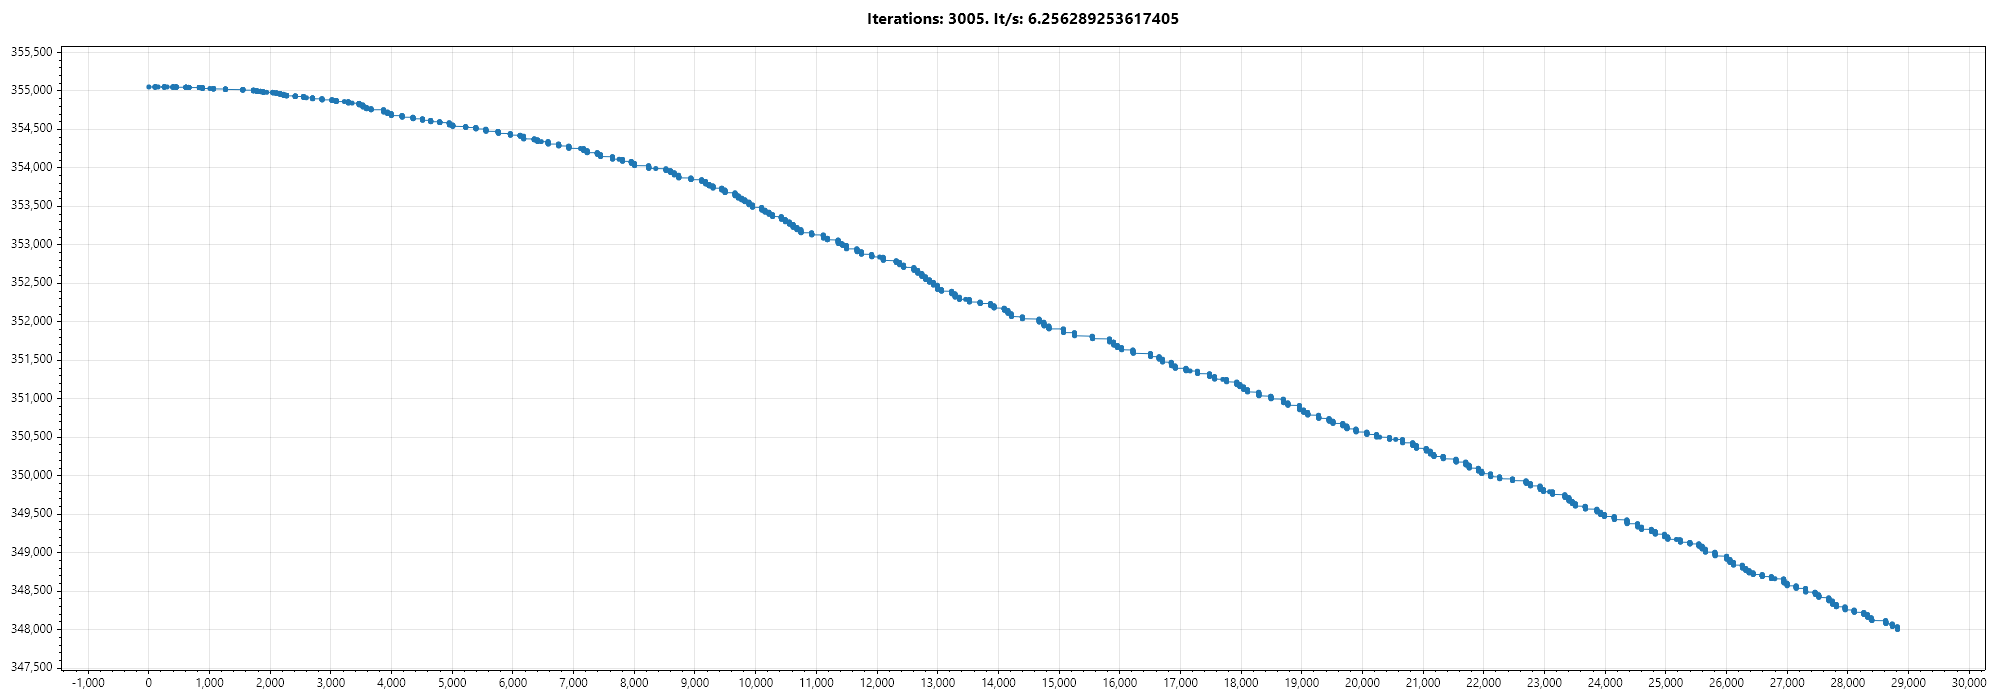
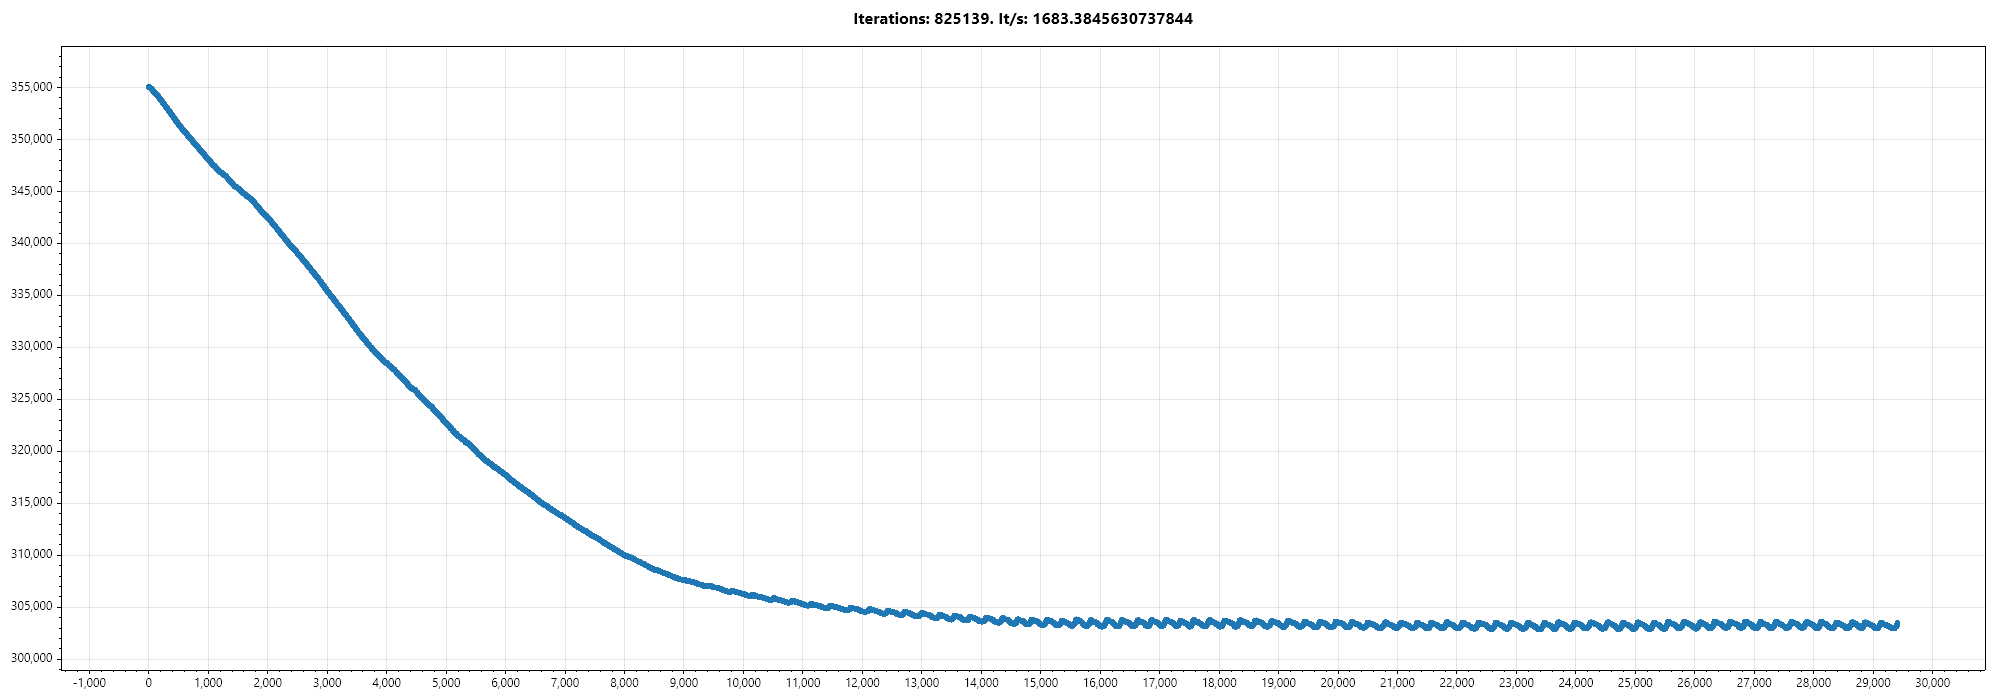
V2: replace destructive perturbation with score-guided + elite pool
- Score-guided perturbation: BMS-sample easiest-to-remove vertices (3-5)
  instead of escalating random/high-freq/BFS-cluster removal
- More frequent perturbation (50k vs 100k threshold)
- Elite pool of 3 best solutions with restart-from-elite on deep stagnation
- More frequent frequency smoothing (75k vs 100k)
- Remove expensive vertexAppearCount tracking and full greedy restarts

Result: V2 now beats V1 (302,477 vs 302,882) with 3x more iterations
in the same time budget on heuristic_001.gr.

diff --git a/Solvers/CC2FS_ClaudeV2.cs b/Solvers/CC2FS_ClaudeV2.cs
@@ -1,18 +1,15 @@
 using BSC_DS_MP.DataStructures.Graph;
-using BSC_DS_MP.DataStructures.Heap;
 using BSC_DS_MP.Util;
 using ScottPlot;
 using System;
-using System.Collections;
 using System.Collections.Generic;
 using System.Diagnostics;
 
 namespace BSC_DS_MP.Solvers;
 
 /// <summary>
-/// CC2FS V2: Same core loop as V1 but with progressive perturbation
-/// (escalating disruption on stagnation) and randomized restarts with
-/// history-based diversity penalties.
+/// CC2FS V2: Same core loop as V1 but with score-guided perturbation,
+/// elite solution pool, and restart-from-elite on deep stagnation.
 /// </summary>
 internal class CC2FS_ClaudeV2 : ISolver {
 
@@ -74,16 +71,20 @@ internal class CC2FS_ClaudeV2 : ISolver {
     int[] forbidBuf;
     int forbidCount;
 
-    // --- Stagnation / progressive perturbation ---
+    // --- Stagnation ---
     int stepsSinceImprovement;
-    int perturbLevel;
-    static readonly int[] STAGNATION_THRESHOLDS = { 100_000, 300_000, 700_000, 1_500_000 };
+    int totalStepsSinceBestImproved;
+    const int STAGNATION_THRESHOLD = 50_000;
+    const int RESTART_THRESHOLD = 500_000;
 
-    const int SMOOTH_INTERVAL = 100_000;
+    const int SMOOTH_INTERVAL = 75_000;
     int smoothCounter;
 
-    // --- Restart history ---
-    int[] vertexAppearCount;
+    // --- Elite pool ---
+    const int ELITE_POOL_SIZE = 3;
+    int[][] elitePool;
+    int[] eliteCounts;
+    int eliteUsed;
     int restartCount;
 
     private readonly bool useOneLevelCC;
@@ -126,9 +127,11 @@ internal class CC2FS_ClaudeV2 : ISolver {
         stepCounter = 0;
         smoothCounter = 0;
         stepsSinceImprovement = 0;
-        perturbLevel = 0;
+        totalStepsSinceBestImproved = 0;
 
-        vertexAppearCount = new int[n];
+        elitePool = new int[ELITE_POOL_SIZE][];
+        eliteCounts = new int[ELITE_POOL_SIZE];
+        eliteUsed = 0;
         restartCount = 0;
 
         ISolution init = new GreedyDecreaseKey().Solve(graph, null);
@@ -164,10 +167,8 @@ internal class CC2FS_ClaudeV2 : ISolver {
                     bestSolVertices = new int[solList.count];
                     Array.Copy(solList.items, bestSolVertices, solList.count);
                     stepsSinceImprovement = 0;
-                    perturbLevel = 0;
-
-                    for (int i = 0; i < solList.count; i++)
-                        vertexAppearCount[solList.items[i]]++;
+                    totalStepsSinceBestImproved = 0;
+                    UpdateElitePool(solList.items, solList.count);
                 }
                 int v = GetBestRemoveBMS(useForbidList: false);
                 RemoveVertex(v);
@@ -189,20 +190,19 @@ internal class CC2FS_ClaudeV2 : ISolver {
             }
 
             stepsSinceImprovement++;
+            totalStepsSinceBestImproved++;
 
-            // Progressive perturbation (V2 improvement over V1's fixed perturbation)
-            if (perturbLevel < STAGNATION_THRESHOLDS.Length &&
-                stepsSinceImprovement > STAGNATION_THRESHOLDS[perturbLevel] &&
-                solList.count > 0) {
-                if (perturbLevel < 3) {
-                    Perturb(perturbLevel + 1);
-                    perturbLevel++;
-                    stepsSinceImprovement = 0;
-                } else {
-                    TriggerRestart(graph);
-                    perturbLevel = 0;
-                    stepsSinceImprovement = 0;
-                }
+            // Score-guided perturbation on stagnation
+            if (stepsSinceImprovement > STAGNATION_THRESHOLD && solList.count > 0) {
+                Perturb();
+                stepsSinceImprovement = 0;
+            }
+
+            // Restart from elite on deep stagnation
+            if (totalStepsSinceBestImproved > RESTART_THRESHOLD && eliteUsed > 0) {
+                RestartFromElite();
+                stepsSinceImprovement = 0;
+                totalStepsSinceBestImproved = 0;
             }
         }
 
@@ -467,67 +467,66 @@ internal class CC2FS_ClaudeV2 : ISolver {
         for (int v = 0; v < n; v++) score[v] = ComputeScoreFromScratch(v);
     }
 
-    // --- V2-specific: Progressive perturbation ---
+    // --- Score-guided perturbation: remove 3-5 easiest-to-remove vertices ---
 
-    private void Perturb(int intensity) {
-        if (solList.count == 0) return;
-        switch (intensity) {
-            case 1: PerturbRandom(rng.Next(3, 8)); break;           // mild: similar to V1
-            case 2: PerturbHighFreq(rng.Next(10, 30)); break;      // medium: targeted
-            case 3: PerturbBfsCluster(rng.Next(30, 100)); break;   // strong: structural
+    private void Perturb() {
+        int toRemove = rng.Next(3, 6);
+        toRemove = Math.Min(toRemove, solList.count);
+        if (toRemove == 0) return;
+
+        // BMS-style sampling: find the vertices with highest score (least costly to remove)
+        int[] candidates = new int[toRemove];
+        int[] candScores = new int[toRemove];
+        Array.Fill(candScores, int.MinValue);
+
+        int sampleSize = Math.Min(BMS_K * 2, solList.count);
+        for (int s = 0; s < sampleSize; s++) {
+            int v = solList.RandomElement(rng);
+            int sc = score[v];
+            int worstIdx = 0;
+            for (int j = 1; j < toRemove; j++) {
+                if (candScores[j] < candScores[worstIdx]) worstIdx = j;
+            }
+            if (sc > candScores[worstIdx]) {
+                candidates[worstIdx] = v;
+                candScores[worstIdx] = sc;
+            }
         }
-    }
 
-    private void PerturbRandom(int count) {
-        count = Math.Min(count, solList.count);
-        for (int i = 0; i < count; i++) {
-            if (solList.count == 0) break;
-            RemoveVertex(solList.RandomElement(rng));
-        }
-    }
-
-    private void PerturbHighFreq(int count) {
-        count = Math.Min(count, solList.count);
-        var candidates = new int[solList.count];
-        Array.Copy(solList.items, candidates, solList.count);
-        int candCount = solList.count;
-        Array.Sort(candidates, 0, candCount, Comparer<int>.Create((a, b) => freq[b].CompareTo(freq[a])));
-        for (int i = 0; i < count && i < candCount; i++) {
-            if (solList.Contains(candidates[i]))
+        for (int i = 0; i < toRemove; i++) {
+            if (candScores[i] != int.MinValue && solList.Contains(candidates[i]))
                 RemoveVertex(candidates[i]);
         }
     }
 
-    private void PerturbBfsCluster(int count) {
-        if (solList.count == 0) return;
-        count = Math.Min(count, solList.count);
-        int seed = solList.RandomElement(rng);
-        var queue = new Queue<int>();
-        var visited = new HashSet<int>();
-        queue.Enqueue(seed);
-        visited.Add(seed);
-        var toRemove = new List<int>(count);
-        while (queue.Count > 0 && toRemove.Count < count) {
-            int v = queue.Dequeue();
-            toRemove.Add(v);
-            var neighbors = csr.GetNeighbors(v);
-            for (int i = 0; i < neighbors.Length; i++) {
-                int u = neighbors[i];
-                if (solList.Contains(u) && !visited.Contains(u)) {
-                    visited.Add(u);
-                    queue.Enqueue(u);
-                }
+    // --- Elite pool ---
+
+    private void UpdateElitePool(int[] solVertices, int solCount) {
+        if (eliteUsed < ELITE_POOL_SIZE) {
+            elitePool[eliteUsed] = new int[solCount];
+            Array.Copy(solVertices, elitePool[eliteUsed], solCount);
+            eliteCounts[eliteUsed] = solCount;
+            eliteUsed++;
+        } else {
+            int worstIdx = 0;
+            for (int i = 1; i < ELITE_POOL_SIZE; i++) {
+                if (eliteCounts[i] > eliteCounts[worstIdx]) worstIdx = i;
+            }
+            if (solCount < eliteCounts[worstIdx]) {
+                elitePool[worstIdx] = new int[solCount];
+                Array.Copy(solVertices, elitePool[worstIdx], solCount);
+                eliteCounts[worstIdx] = solCount;
             }
         }
-        foreach (int v in toRemove)
-            if (solList.Contains(v)) RemoveVertex(v);
     }
 
-    // --- V2-specific: Randomized restart with diversity ---
+    // --- Restart from a random elite solution ---
 
-    private void TriggerRestart(IGraph graph) {
+    private void RestartFromElite() {
         restartCount++;
+        int idx = rng.Next(eliteUsed);
 
+        // Clear current solution
         while (solList.count > 0)
             SolRemoveVertex(solList.items[solList.count - 1]);
 
@@ -535,35 +534,21 @@ internal class CC2FS_ClaudeV2 : ISolver {
         for (int v = 0; v < n; v++)
             if (coveredCount[v] == 0) uncovList.Add(v);
 
-        var covered = new BitArray(n, false);
-        int covCount = 0;
-        var heap = new IndexedMaxHeap(n);
-        double diversityWeight = Math.Min(restartCount * 0.5, 5.0);
-        int noiseRange = Math.Max(1, n / 1000);
+        // Reload elite solution
+        for (int i = 0; i < eliteCounts[idx]; i++)
+            SolAddVertex(elitePool[idx][i]);
 
-        for (int v = 0; v < n; v++) {
-            int deg = csr.GetNeighbors(v).Length + 1;
-            int penalty = (int)(diversityWeight * vertexAppearCount[v]);
-            int noise = rng.Next(0, noiseRange);
-            heap.Insert(v, Math.Max(0, deg - penalty + noise));
-        }
+        uncovList = new SwapList(n);
+        for (int v = 0; v < n; v++)
+            if (coveredCount[v] == 0) uncovList.Add(v);
 
-        while (!heap.IsEmpty() && covCount < n) {
-            int sel = heap.RemoveMax();
-            if (covered[sel]) continue;
-            SolAddVertex(sel);
-            covered[sel] = true;
-            covCount++;
-            var neighbors = csr.GetNeighbors(sel);
-            for (int i = 0; i < neighbors.Length; i++) {
-                int nbr = neighbors[i];
-                if (!covered[nbr]) { covered[nbr] = true; covCount++; }
-            }
-        }
+        // Reset frequencies to break old patterns
+        for (int v = 0; v < n; v++)
+            freq[v] = Math.Max(1, freq[v] / 4);
 
         Array.Fill(confChange, true);
-        Array.Fill(freq, 1);
         smoothCounter = 0;
+
         for (int v = 0; v < n; v++)
             score[v] = ComputeScoreFromScratch(v);
     }
